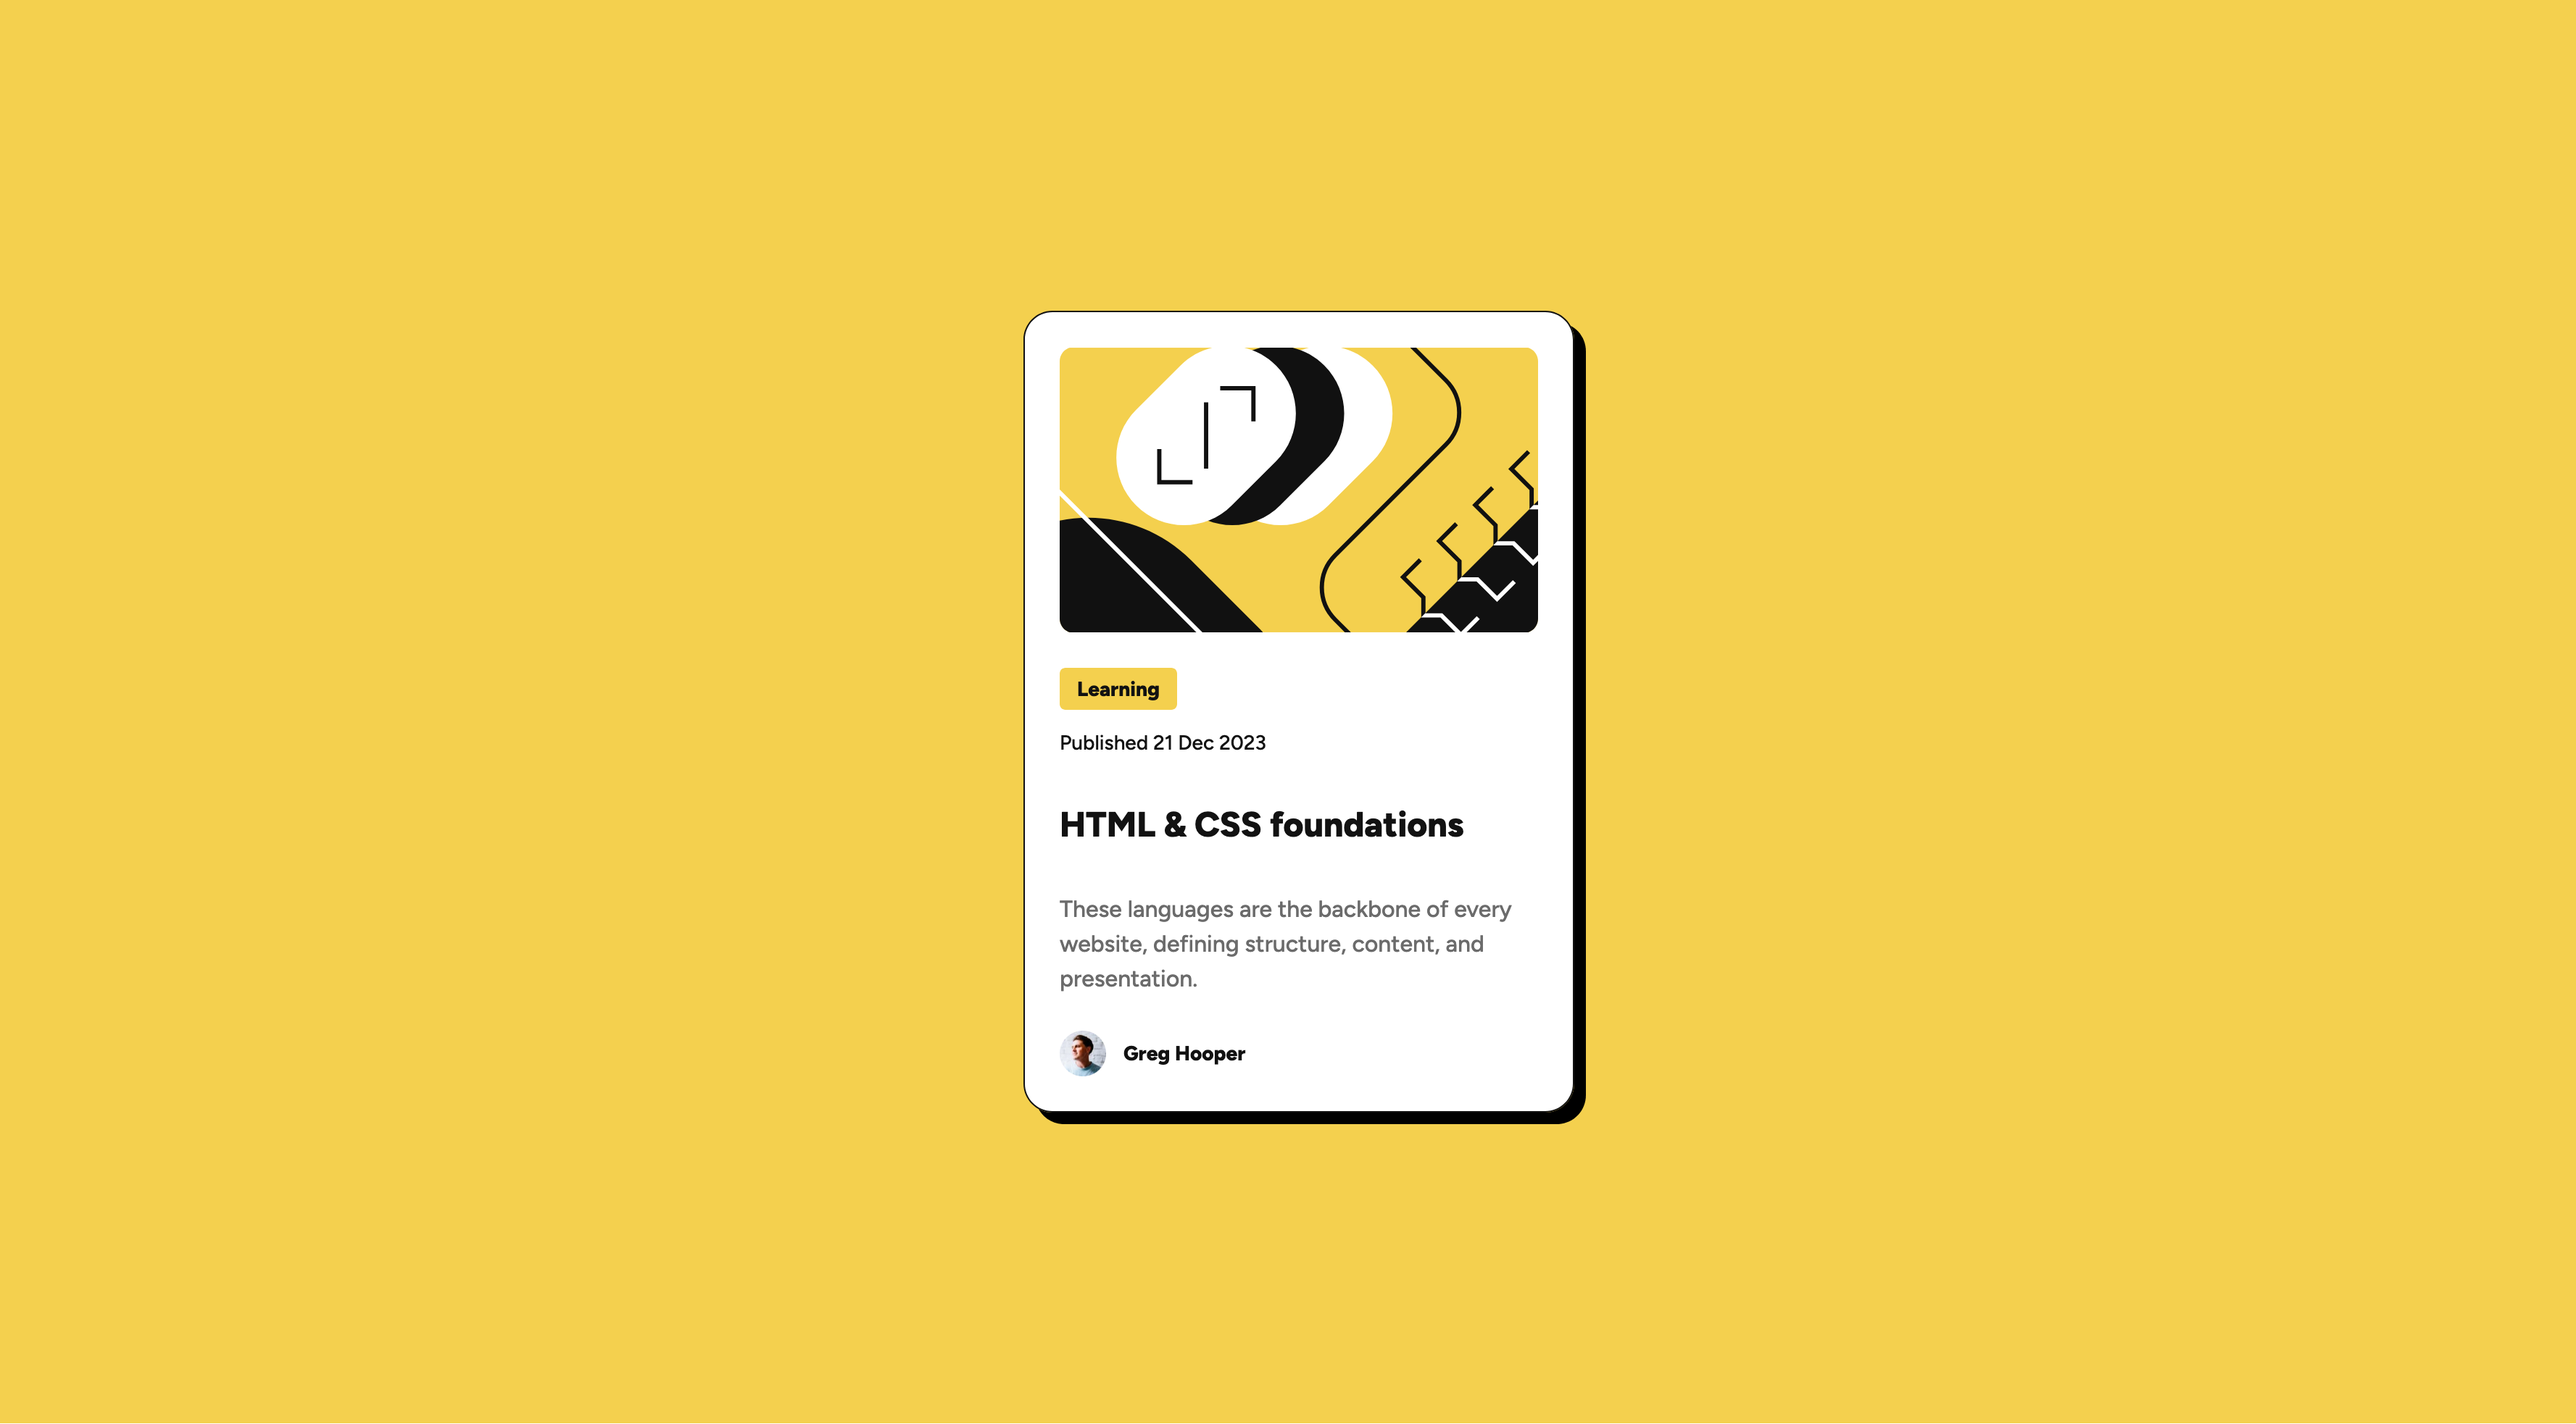
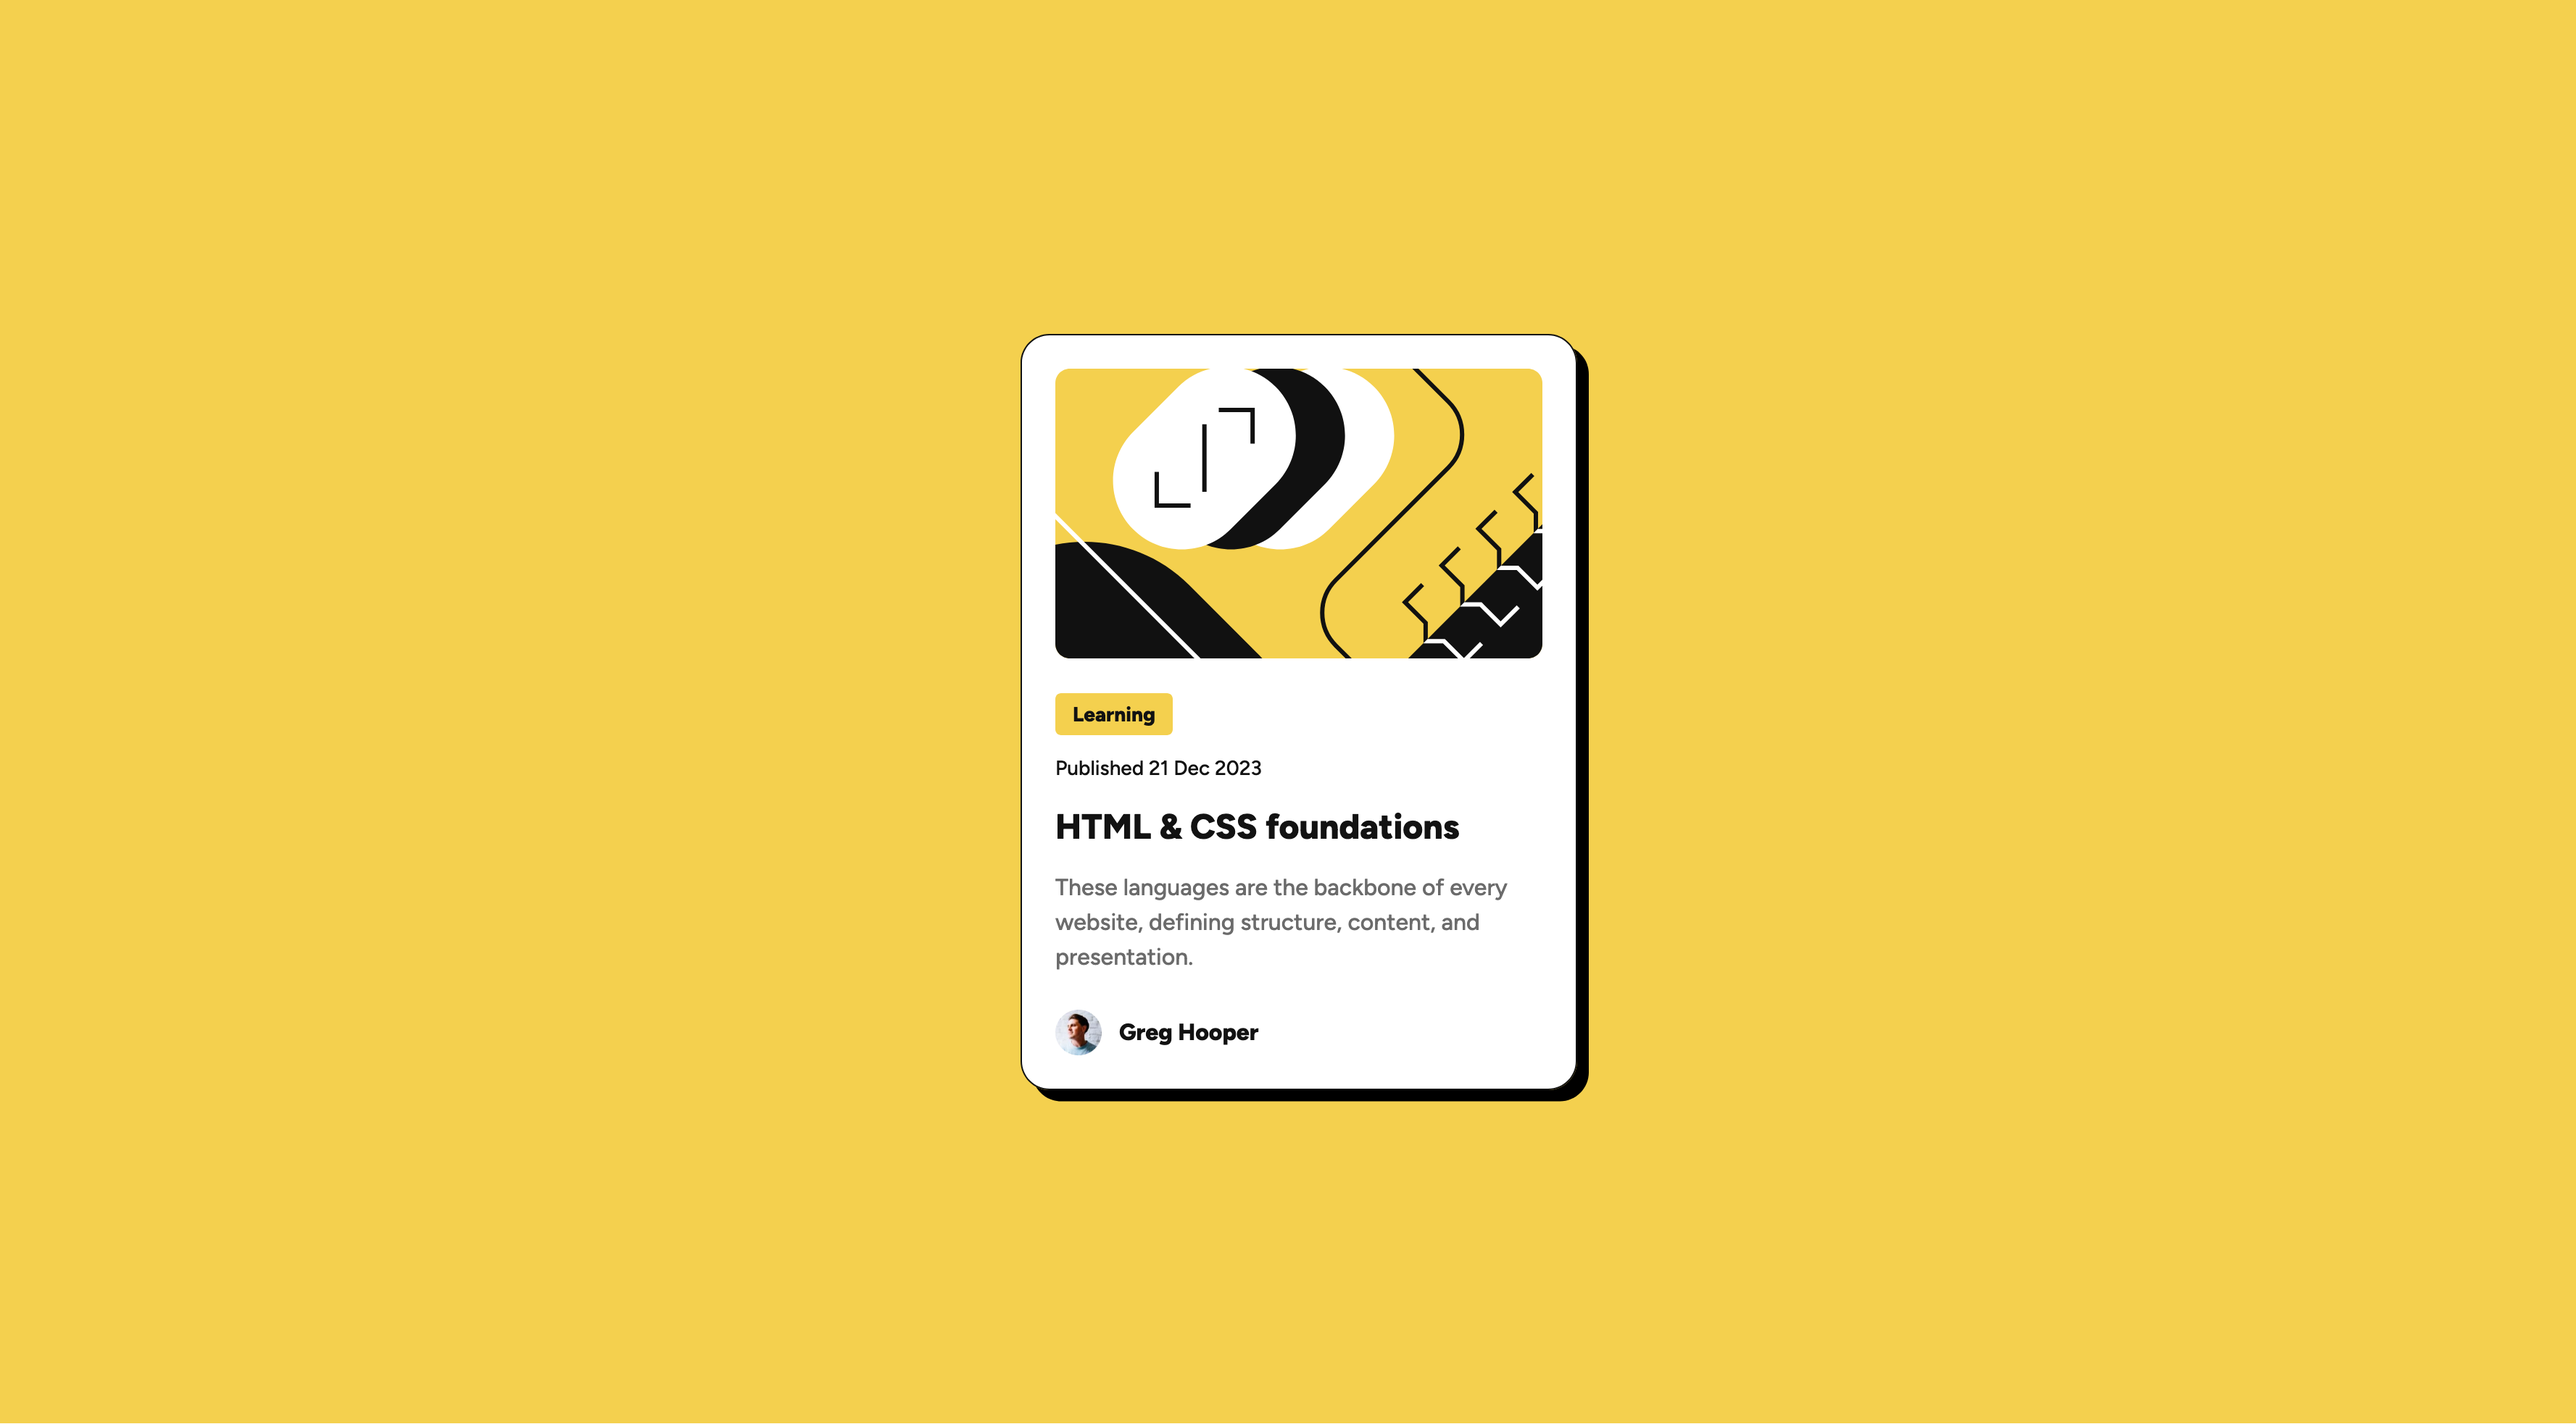
minor HTML & CSS improvements

Changed region(s): [[0.3748, 0.2172, 0.6246, 0.5895], [0.3748, 0.6205, 0.6246, 0.8067]]

diff --git a/styles.css b/styles.css
@@ -71,7 +71,7 @@ body {
   box-shadow: var(--shadow-base);
   border: 0.0625rem solid var(--color-gray-950);
   border-radius: var(--radius-base);
-  max-width: 20.875rem;
+  max-width: 24rem;
   padding: calc(var(--spacing-300) - 0.0625rem);
   background-color: var(--color-white);
 }
@@ -89,7 +89,7 @@ body {
   flex-direction: column;
   align-items: flex-start;
   gap: var(--spacing-150);
-  margin-top: var(--spacing-300);
+  margin-block-start: var(--spacing-300);
 }
 
 .blog-category {
@@ -115,7 +115,7 @@ body {
   transition: color 0.2s ease-in-out;
 
   &:hover,
-  &:focus {
+  &:focus-visible {
     color: var(--color-yellow);
   }
 }
@@ -127,7 +127,7 @@ body {
 }
 
 .blog-author {
-  margin-top: var(--spacing-300);
+  margin-block-start: var(--spacing-300);
   display: flex;
   align-items: center;
   gap: var(--spacing-150);
@@ -141,4 +141,10 @@ body {
 .blog-author-name {
   font-size: var(--font-size-medium);
   font-weight: var(--font-weight-extra-bold);
+}
+
+@media (prefers-reduced-motion: reduce) {
+  .blog-title-link {
+    transition: none;
+  }
 }

diff --git a/index.html b/index.html
@@ -27,8 +27,12 @@
           fetchpriority="high"
         />
         <div class="card-content">
-          <div class="blog-category">Learning</div>
-          <p class="blog-published">Published 21 Dec 2023</p>
+          <span class="blog-category" aria-label="Article category">
+            Learning
+          </span>
+          <p class="blog-published">
+            Published <time datetime="2023-12-21">21 Dec 2023</time>
+          </p>
           <h1 class="blog-title">
             <a
               class="blog-title-link"
